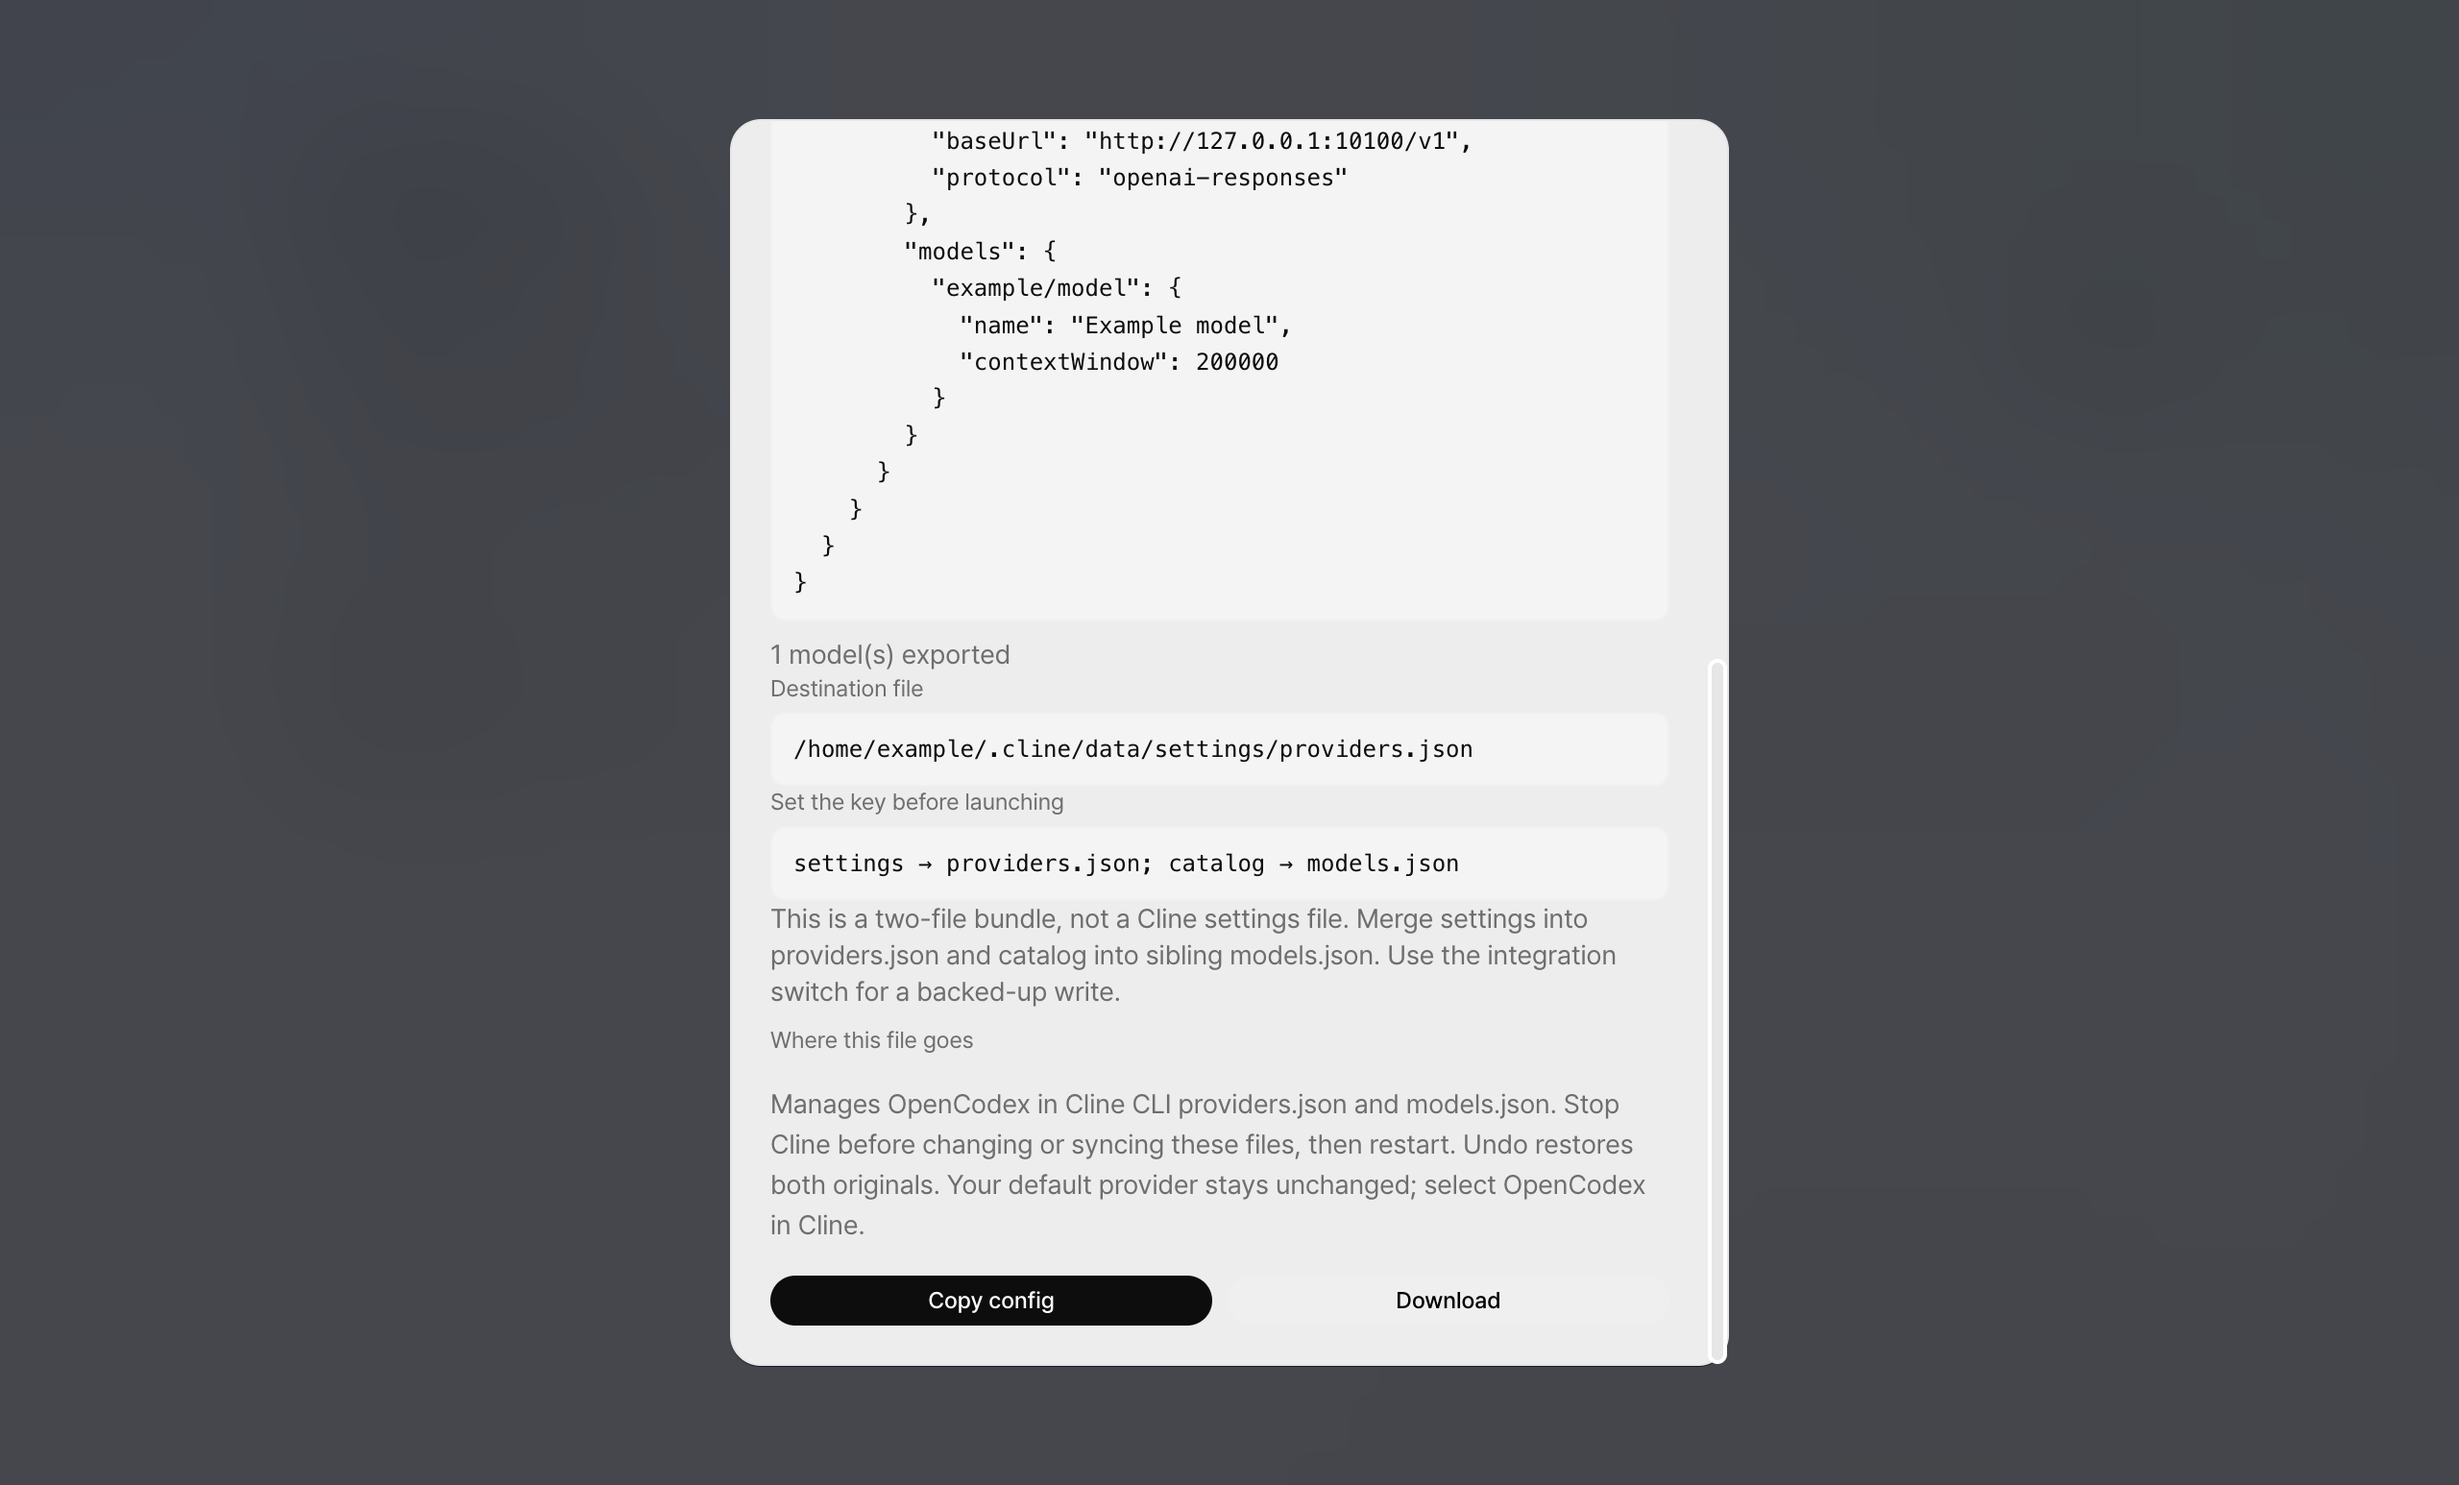
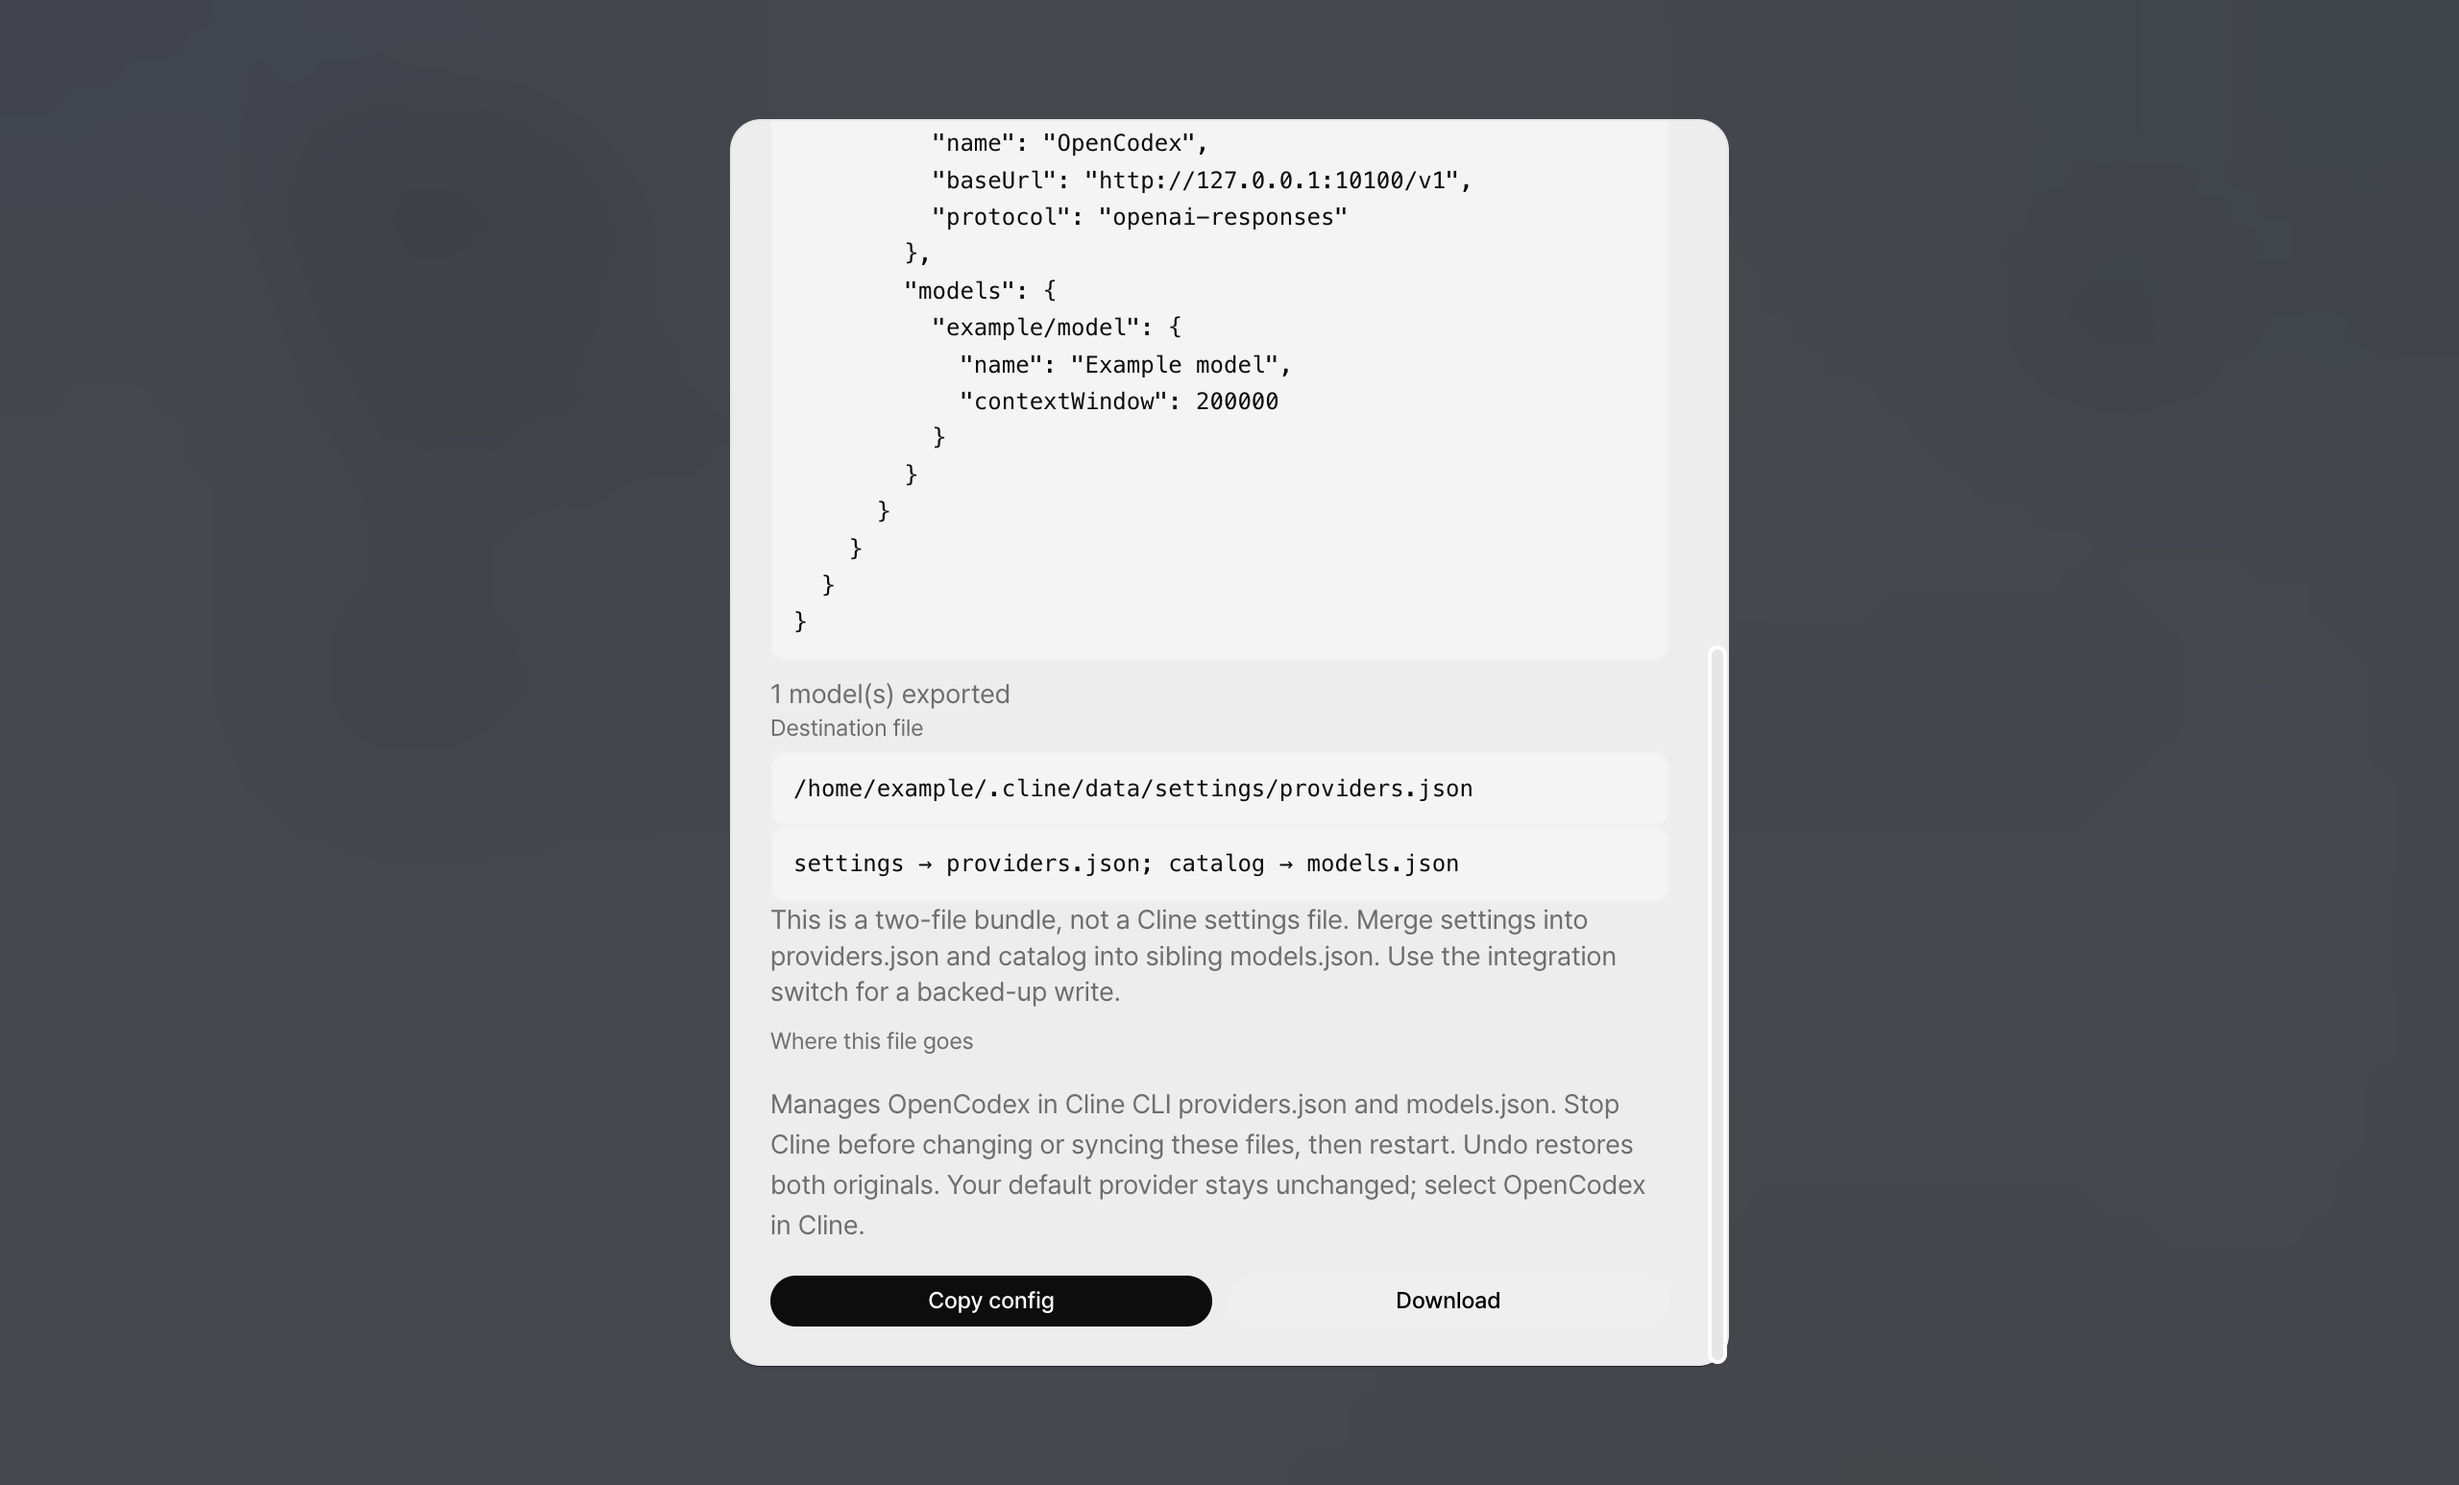
fix(gui): omit Cline key setup heading from paired export

diff --git a/gui/src/components/apikeys-workspace/ClientConfigDialog.tsx b/gui/src/components/apikeys-workspace/ClientConfigDialog.tsx
@@ -91,7 +91,7 @@ export default function ClientConfigDialog({
           <CopyableExample text={envelope.destination} />
         </div>
         <div className="awi-clientconfig-line">
-          <span className="muted text-label">{t("api.clientConfig.envHint")}</span>
+          {client !== "cline" && <span className="muted text-label">{t("api.clientConfig.envHint")}</span>}
           <CopyableExample text={envelope.exportHint} />
         </div>
         <p className="muted small awi-clientconfig-merge">{t(client === "cline" ? "api.clientConfig.clineBundle" : "api.clientConfig.mergeWarning")}</p>

diff --git a/gui/tests/client-config-panel.test.tsx b/gui/tests/client-config-panel.test.tsx
@@ -235,6 +235,7 @@ test("Cline details explain the two-file bundle instead of a single-file merge",
   expect(dialog.textContent).toContain("two-file bundle");
   expect(dialog.textContent).toContain("Stop Cline");
   expect(dialog.textContent).not.toContain("Merge this into the destination file.");
+  expect(dialog.textContent).not.toContain("Set the key before launching");
   expect(dialog.querySelector(".awi-clientconfig-nokey")).toBeNull();
   expect(JSON.parse(dialog.querySelector("pre")!.textContent!)).toEqual(config);
   await act(async () => { root.unmount(); });

diff --git a/devlog/_plan/260912_cline_client/039_gui_evidence.md b/devlog/_plan/260912_cline_client/039_gui_evidence.md
@@ -21,3 +21,5 @@ journaled integration recommendation and stop/restart explanation; the single-fi
 and missing-admission-key hint are absent for Cline.
 
 ![Cline two-file export instructions](evidence/cline-export.png)
+
+Export capture refreshed after removing the irrelevant Set-the-key heading. GUI tree: a070b75cabe1974e59d407c595709d1ffb3c4a58. Same synthetic harness; entry bundling took 19 ms. No local test execution.
